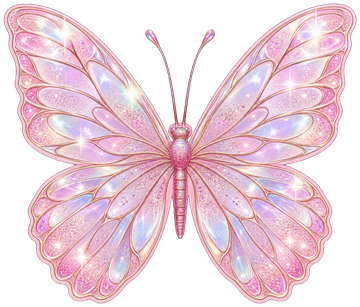
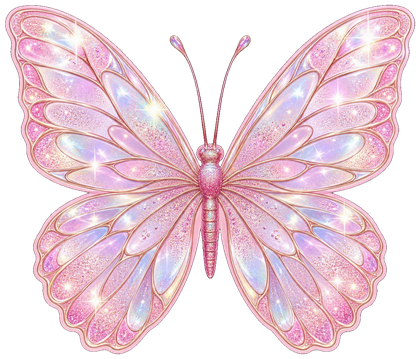
Update book club site

diff --git a/src/app/BookClubPage.tsx b/src/app/BookClubPage.tsx
@@ -337,7 +337,7 @@ export default async function BookClubPage({ searchParams }: BookClubPageProps) 
         .bcButterflyThree { top: 56%; left: -5%; width: 42px; animation-duration: 30s, 1s; animation-delay: -8s, -0.2s; opacity: 0.7; }
         .bcButterflyFour { top: 72%; left: -8%; width: 30px; animation-duration: 24s, 1.4s; animation-delay: -17s, -0.8s; opacity: 0.58; }
         .bcButterflyFive { top: 22%; left: -10%; width: 22px; animation-duration: 34s, 1.2s; animation-delay: -23s, -0.5s; opacity: 0.54; }
-        .bcCursorButterfly { position: fixed; left: 0; top: 0; z-index: 30; width: 34px; height: auto; pointer-events: none; opacity: 0; transform: translate3d(-100px, -100px, 0); transition: opacity 0.18s ease; filter: hue-rotate(145deg) saturate(1.75) brightness(1.05) drop-shadow(0 2px 5px rgba(38, 83, 170, 0.28)); }
+        .bcCursorButterfly { position: fixed; left: 0; top: 0; z-index: 30; width: 26px; height: auto; pointer-events: none; opacity: 0; transform: translate3d(-100px, -100px, 0); transition: opacity 0.18s ease; filter: hue-rotate(145deg) saturate(1.85) brightness(1.08) drop-shadow(0 2px 5px rgba(38, 83, 170, 0.28)); }
         .bcCursorButterfly.isVisible { opacity: 0.86; }
         @keyframes bcFlutter { 0% { transform: translate3d(-8vw, 0, 0) rotate(7deg); } 20% { transform: translate3d(24vw, -28px, 0) rotate(-9deg); } 42% { transform: translate3d(48vw, 34px, 0) rotate(11deg); } 68% { transform: translate3d(78vw, -18px, 0) rotate(-6deg); } 100% { transform: translate3d(112vw, 24px, 0) rotate(8deg); } }
         @keyframes bcPulse { from { scale: 0.88; } to { scale: 1.08; } }
@@ -387,8 +387,8 @@ export default async function BookClubPage({ searchParams }: BookClubPageProps) 
               let tx = -100;
               let ty = -100;
               const move = (event) => {
-                tx = event.clientX + 16;
-                ty = event.clientY + 14;
+                tx = event.clientX + 10;
+                ty = event.clientY + 10;
                 butterfly.classList.add('isVisible');
               };
               const animate = () => {
